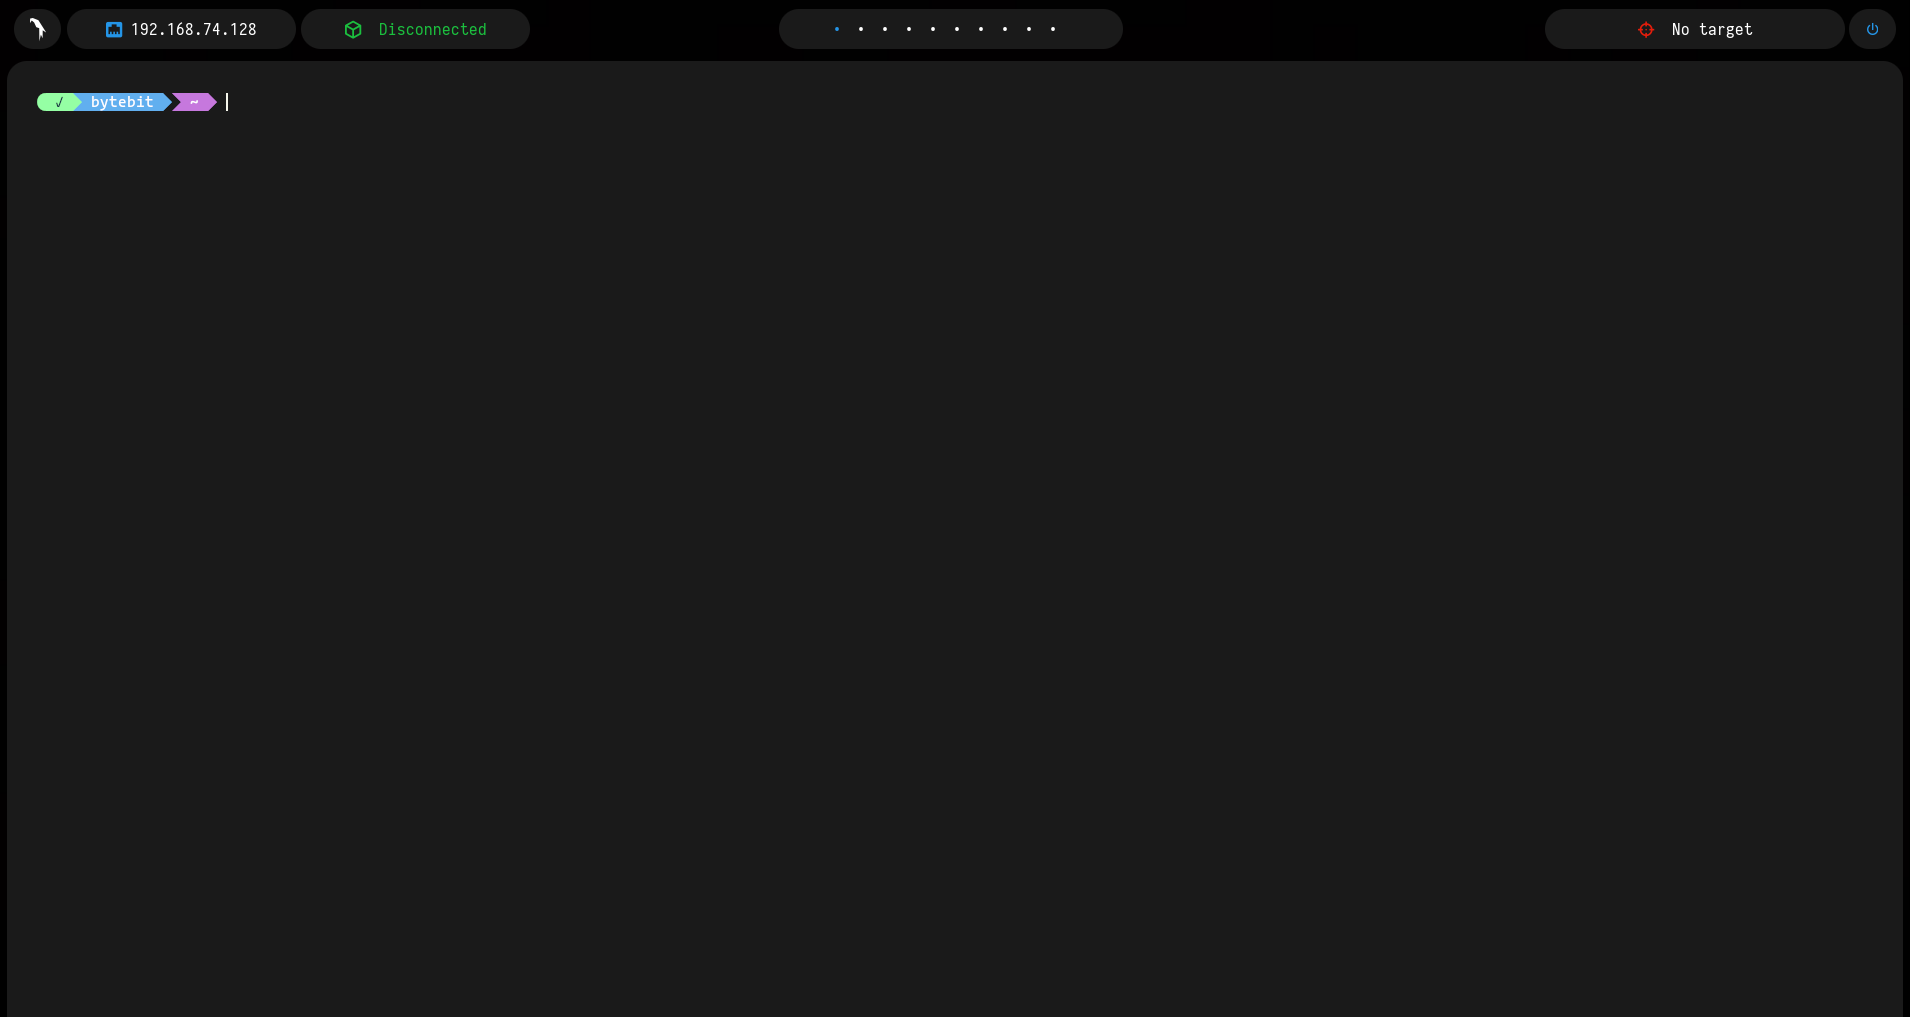
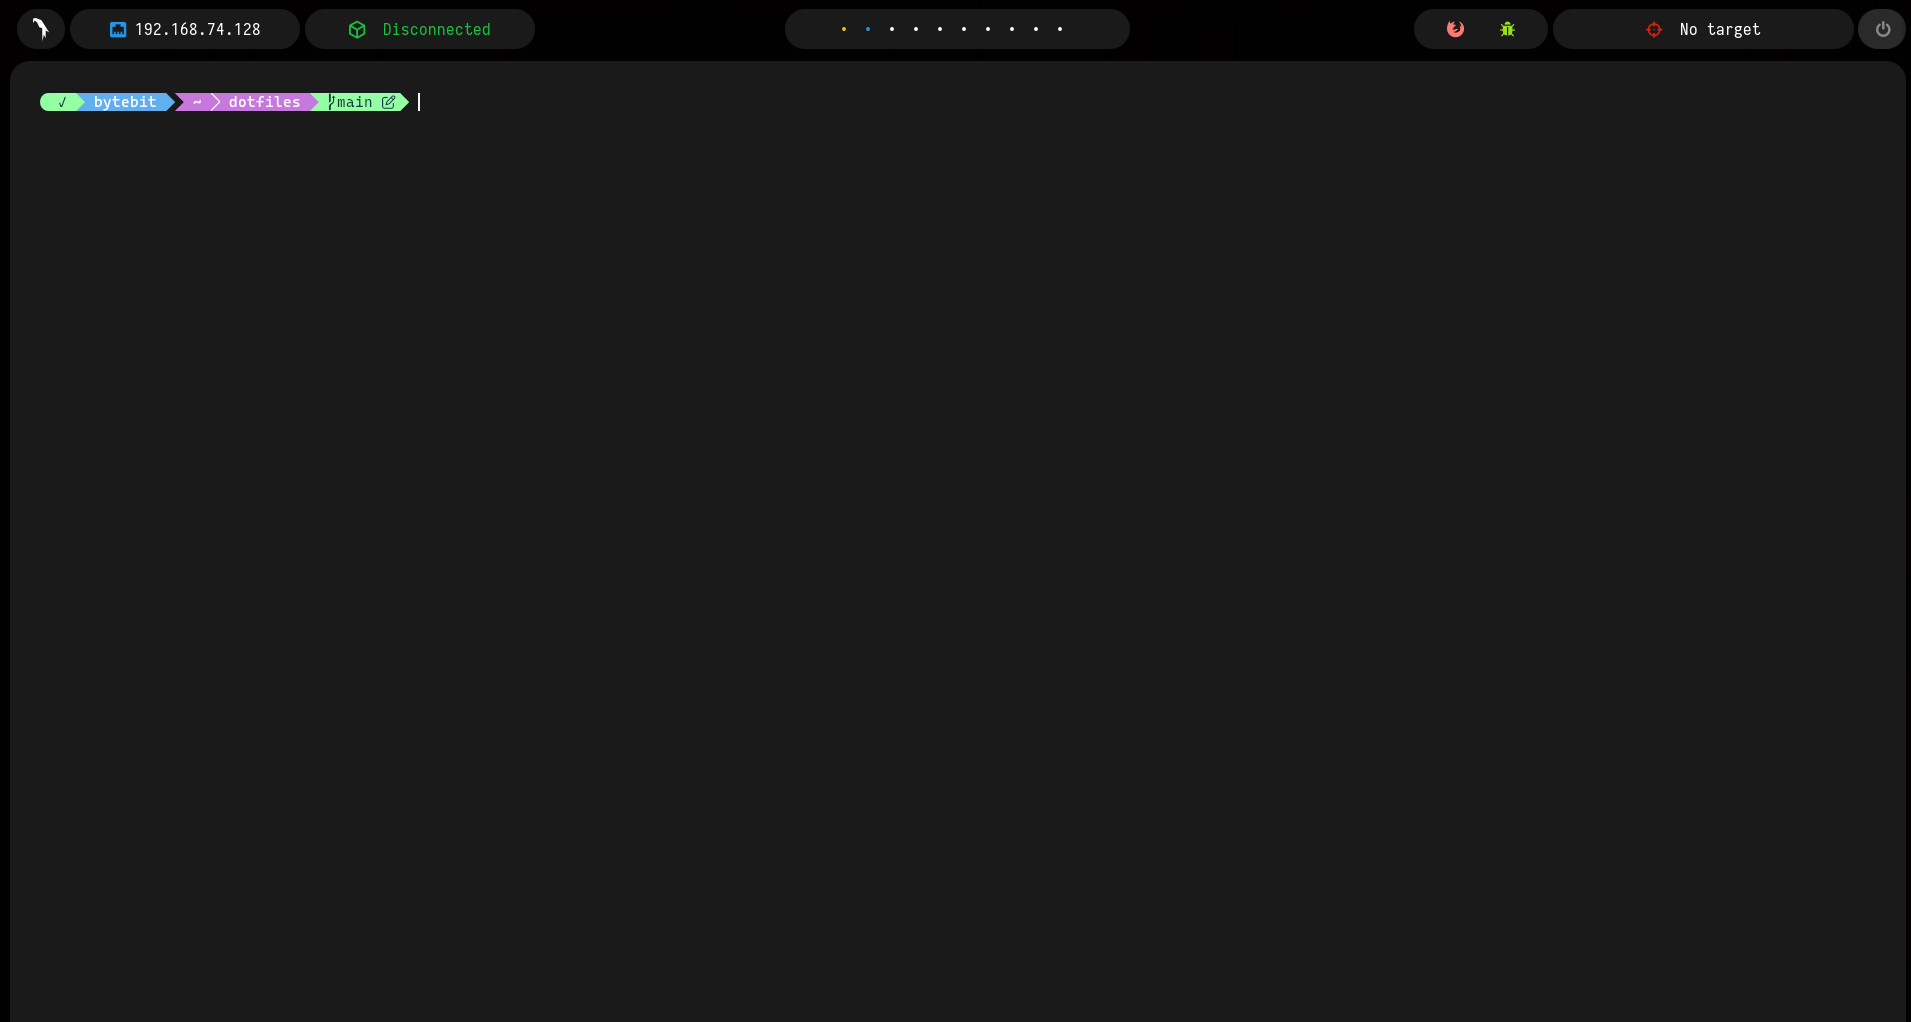
feat: perfiles Firefox aislados + launchers polybar + cleanup config + fix capslock

diff --git a/system/firefox/pentest.user.js b/system/firefox/pentest.user.js
@@ -1,0 +1,54 @@
+// user.js — Hardening light para profile "pentest" de Firefox ESR.
+//
+// system/setup.sh copia este archivo a ~/.mozilla/firefox/<hash>.pentest/
+// (donde <hash> es el path generado por `firefox -CreateProfile pentest`).
+//
+// Filosofía: aislar identidad y prevenir leaks accidentales DURANTE pentest
+// sin romper sitios target que necesitás testear. Para anonimato fuerte
+// (resist fingerprinting tipo Tor Browser) usar Tor Browser, no este profile.
+//
+// Para aplicar cambios tras editar este archivo: cerrar Firefox y reabrir.
+// Firefox lee user.js al startup y reescribe prefs.js con esos valores.
+
+// ----- WebRTC: bloquear -----
+// JS puede revelar tu IP local/pública vía WebRTC aun con VPN activa.
+// En contexto pentest no se necesita WebRTC (no hay videollamadas al target).
+user_pref("media.peerconnection.enabled", false);
+
+// ----- Telemetría Mozilla: off -----
+// Mozilla no necesita saber qué targets visitás.
+user_pref("toolkit.telemetry.enabled", false);
+user_pref("toolkit.telemetry.unified", false);
+user_pref("datareporting.healthreport.uploadEnabled", false);
+user_pref("datareporting.policy.dataSubmissionEnabled", false);
+user_pref("app.shield.optoutstudies.enabled", false);
+
+// ----- Credenciales: no persistir -----
+// Si un PoC abre una URL con autofill, las creds no se guardan en el profile.
+user_pref("signon.rememberSignons", false);
+user_pref("signon.autofillForms", false);
+
+// ----- Form autofill: off -----
+// Nombre, dirección, tarjetas: nada de eso pertenece a este profile.
+user_pref("browser.formfill.enable", false);
+user_pref("extensions.formautofill.addresses.enabled", false);
+user_pref("extensions.formautofill.creditCards.enabled", false);
+
+// ----- HTTPS-Only mode -----
+// Bloquea conexiones HTTP plain. Si un target solo tiene HTTP, Firefox
+// muestra un warning y vos decidís continuar manualmente.
+user_pref("dom.security.https_only_mode", true);
+
+// ----- Limpiar al cerrar -----
+// Profile "fresh" por engagement: al cerrar Firefox, se borran cookies,
+// cache, historial y form data. Bookmarks y extensiones se preservan.
+user_pref("privacy.sanitize.sanitizeOnShutdown", true);
+user_pref("privacy.clearOnShutdown.cookies", true);
+user_pref("privacy.clearOnShutdown.cache", true);
+user_pref("privacy.clearOnShutdown.history", true);
+user_pref("privacy.clearOnShutdown.formdata", true);
+user_pref("privacy.clearOnShutdown.sessions", true);
+
+// ----- Pocket: off -----
+// Función de "guardar para leer luego" de Mozilla. Innecesaria en pentest.
+user_pref("extensions.pocket.enabled", false);

diff --git a/README.md b/README.md
@@ -213,7 +213,8 @@ Cierra sesión gráfica, elige **bspwm** en el login manager, y vuelve a entrar.
 | `Super + Enter` | Abrir terminal (kitty) |
 | `Super + D` | Lanzador rofi |
 | `Super + A` | Toggle anonimato (Tor + anonsurf) |
-| `Super + Shift + F` | Firefox |
+| `Super + Shift + F` | Firefox personal (profile default-esr, intacto) |
+| `Super + Shift + P` | Firefox pentest (profile aislado + user.js hardening) |
 | `Super + Shift + X` | Bloquear pantalla (i3lock-fancy) |
 | `Super + Escape` | Recargar sxhkd |
 | `Super + Shift + R` | Reiniciar bspwm |
@@ -309,6 +310,60 @@ curl --max-time 15 -s https://check.torproject.org/api/ip
 # {"IsTor":true,"IP":"x.x.x.x"} si todo OK
 ```
 
+### Aislamiento de Firefox (profile pentest)
+
+Para evitar correlación entre tu identidad personal (Gmail, GitHub personal) y trabajo de pentest hay 2 profiles de Firefox separados:
+
+| Profile | Atajo | Polybar | Cuándo usarlo |
+|---|---|---|---|
+| `default-esr` | `Super + Shift + F` |  zorro rojo | Personal (mail, GitHub, banking, daily) |
+| `pentest` | `Super + Shift + P` |  bug verde | Targets, OSINT, links sospechosos, lab |
+
+El profile `pentest` aplica un `user.js` (en `system/firefox/pentest.user.js`) con hardening light:
+
+- WebRTC deshabilitado (previene leak de IP vía JS aún con VPN).
+- Telemetría de Mozilla off.
+- No guarda passwords ni autofill.
+- HTTPS-Only mode.
+- Limpia cookies, cache e historial al cerrar Firefox.
+
+`--no-remote` en los lanzadores permite que ambos profiles corran simultáneamente sin que Firefox abra nueva pestaña en la primera instancia.
+
+**Setup inicial (correr una vez):**
+
+```bash
+firefox -CreateProfile pentest          # crea el profile vacío
+sudo ./system/setup.sh                  # paso 5 copia el user.js al profile
+```
+
+Los 2 íconos en la barra `launchers` de polybar (a la izquierda del target) también disparan los profiles vía click.
+
+**Combo full anonimato:** `Super + A` (toggle ON) seguido de `Super + Shift + P` (Firefox pentest) = tráfico vía Tor + profile aislado + hardening. Es el stack más fuerte sin entrar en Tor Browser.
+
+**Para anonimato real (dark web, target nation-state):** Tor Browser, no Firefox normal. El profile pentest no resiste fingerprinting agresivo a propósito (`resistFingerprinting` rompe muchos sitios target).
+
+### Flujo de uso real
+
+`Super+A` no se queda siempre encendido. Tor agrega 3 hops (latencia 500-2000ms), muchos sitios bloquean exit nodes (Cloudflare, bancos, Google), HTB/THM VPN no funciona sobre Tor, y `apt update` se vuelve glacial. Es una herramienta puntual, no un escudo 24/7. (Para "always-on" la arquitectura correcta es Whonix/Tails, no anonsurf en una VM.)
+
+| Lo que vas a hacer | Anonimato | Profile Firefox | VPN |
+|---|---|---|---|
+| Gmail, GitHub personal, banking, daily browse | OFF | Personal | — |
+| Lab HTB / THM (boxes pedagógicas) | OFF | Personal o Pentest | HTB VPN (tun0) |
+| OSINT contra una persona/empresa real | **ON** | Pentest | — |
+| Engagement real con cliente firmado | OFF | Pentest | VPN del cliente si pidieron IP fija |
+| Click sospechoso / phishing / malware sandbox-ish | **ON** | Pentest | — |
+| Investigar dark web | **ON** + Tor Browser | (no Firefox normal) | — |
+| `apt update`, descargar herramientas | OFF | — | — |
+
+**Regla simple para activar `Super+A`:**
+
+- El target no debe ver tu IP real, **Y**
+- No tenés VPN específica del engagement, **Y**
+- Lo que vas a hacer no requiere latencia baja o ancho de banda alto.
+
+En todo lo demás: anonimato OFF. El error común es ver Tor como "ON = seguro, OFF = inseguro" — en realidad es "ON = ocultá la IP a costa de velocidad/funcionalidad". Lo elegís en cada momento según el contexto.
+
 ---
 
 ## 🎨 Personalización rápida
@@ -400,7 +455,7 @@ dotfiles/
 ├── bspwm/               → ~/.config/bspwm/  (bspwmrc + scripts/)
 ├── sxhkd/               → ~/.config/sxhkd/  (sxhkdrc)
 ├── polybar/             → ~/.config/polybar/
-│   ├── current.ini      → bars activos (log, vpn, ethernet, target, primary)
+│   ├── current.ini      → bars activos (log, vpn, ethernet, target, launchers, primary)
 │   ├── workspace.ini    → bar central de workspaces
 │   ├── colors.ini       → paleta activa (Monokai Soda — sobrescribir con colors_dark/light si quieres)
 │   ├── launch.sh        → mata y relanza todas las barras
@@ -412,18 +467,22 @@ dotfiles/
 ├── nvim/                → ~/.config/nvim/  (NvChad como base)
 ├── oh-my-posh/          → ~/dotfiles/oh-my-posh/  (capr4n.omp.json, sincronizado con dotfiles-windows)
 ├── scripts/             → ~/.config/scripts/
-│   ├── ethernet_status.sh   → IP Ethernet (polybar)
-│   ├── vpn_status.sh        → estado VPN (polybar)
-│   ├── victim_to_hack.sh    → lee target activo (polybar)
-│   ├── toggle_anonymity.sh  → toggle Tor + anonsurf (Super+A)
-│   └── anon_module.sh       → estado anon para polybar
+│   ├── ethernet_status.sh         → IP Ethernet (polybar)
+│   ├── vpn_status.sh              → estado VPN (polybar)
+│   ├── victim_to_hack.sh          → lee target activo (polybar)
+│   ├── toggle_anonymity.sh        → toggle Tor + anonsurf (Super+A)
+│   ├── anon_module.sh             → estado anon para polybar
+│   ├── firefox_personal_module.sh → icono launcher Firefox personal
+│   └── firefox_pentest_module.sh  → icono launcher Firefox pentest
 ├── zsh/.zshrc           → ~/.zshrc
 ├── assets/              → preview.png + wallpaper.jpg default
-├── system/              → configs de /etc (sudoers + ufw)
+├── system/              → configs de /etc + hardening de Firefox
 │   ├── README.md
-│   ├── setup.sh         → instalador idempotente para sudoers + ufw
-│   └── sudoers.d/
-│       └── anon_toggle  → template con __USER__ placeholder
+│   ├── setup.sh         → instalador idempotente (sudoers + ufw + Firefox user.js)
+│   ├── sudoers.d/
+│   │   └── anon_toggle  → template con __USER__ placeholder
+│   └── firefox/
+│       └── pentest.user.js → hardening para profile Firefox "pentest"
 ├── install.sh           → instalador idempotente
 ├── CONTRIBUTING.md      → convenciones del proyecto (guía para PRs)
 ├── LICENSE              → MIT